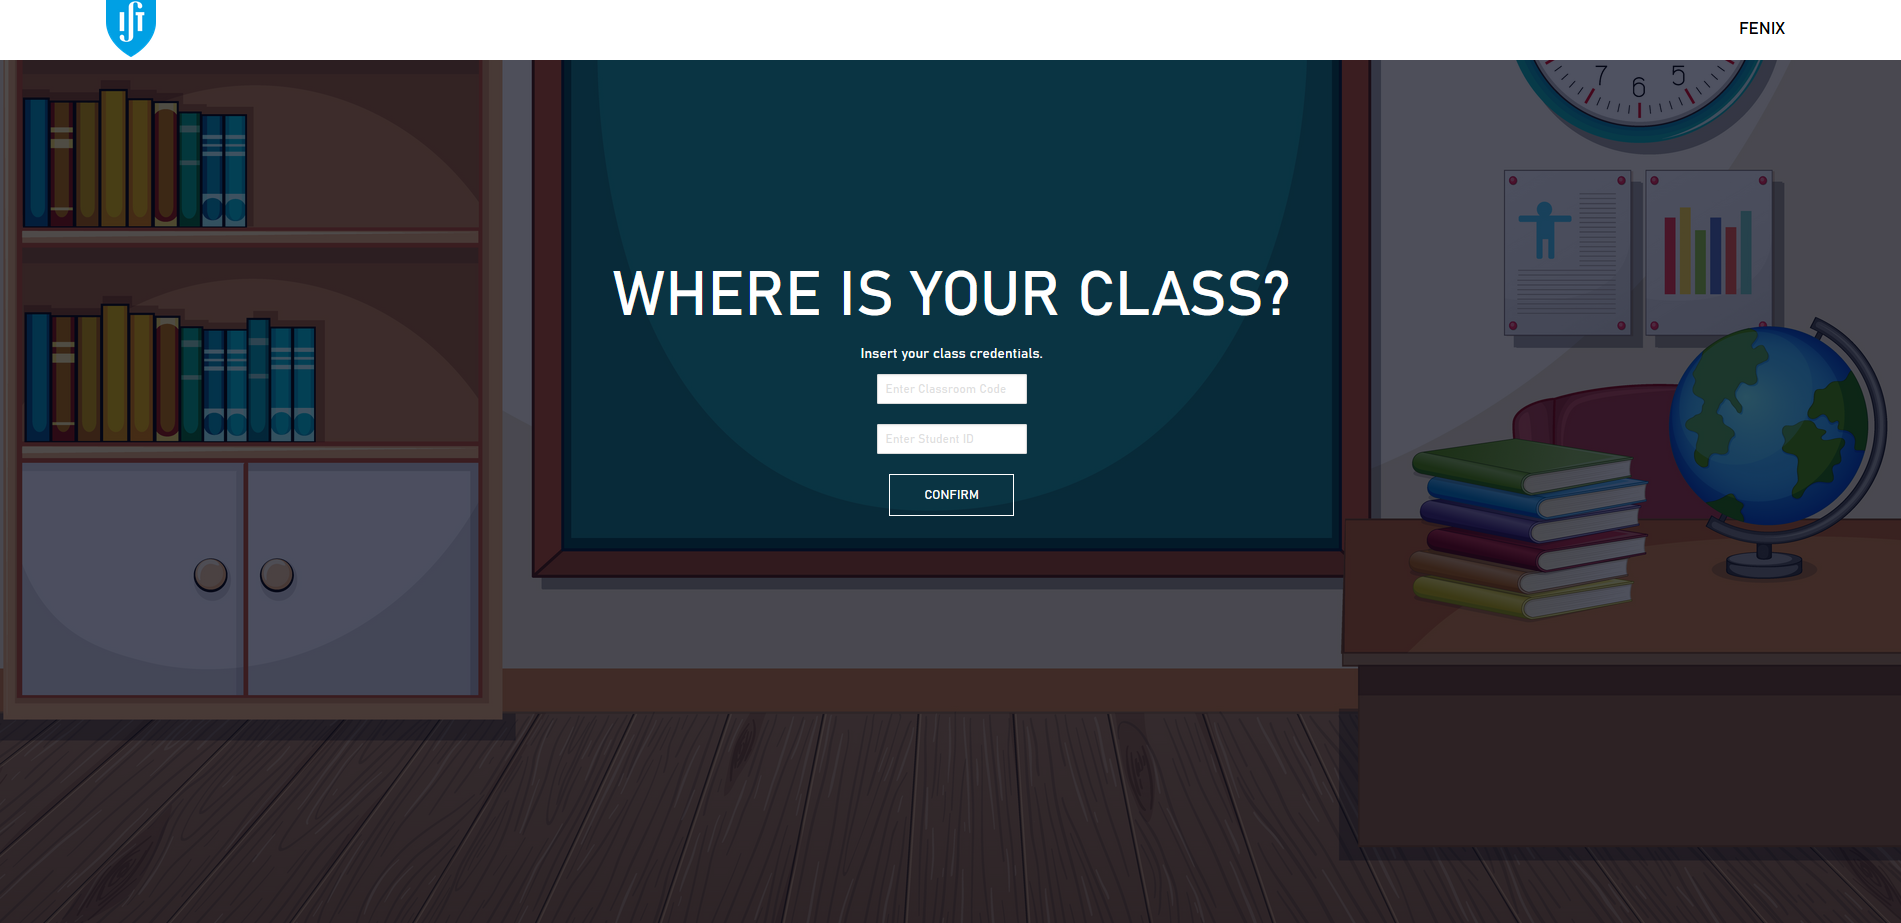
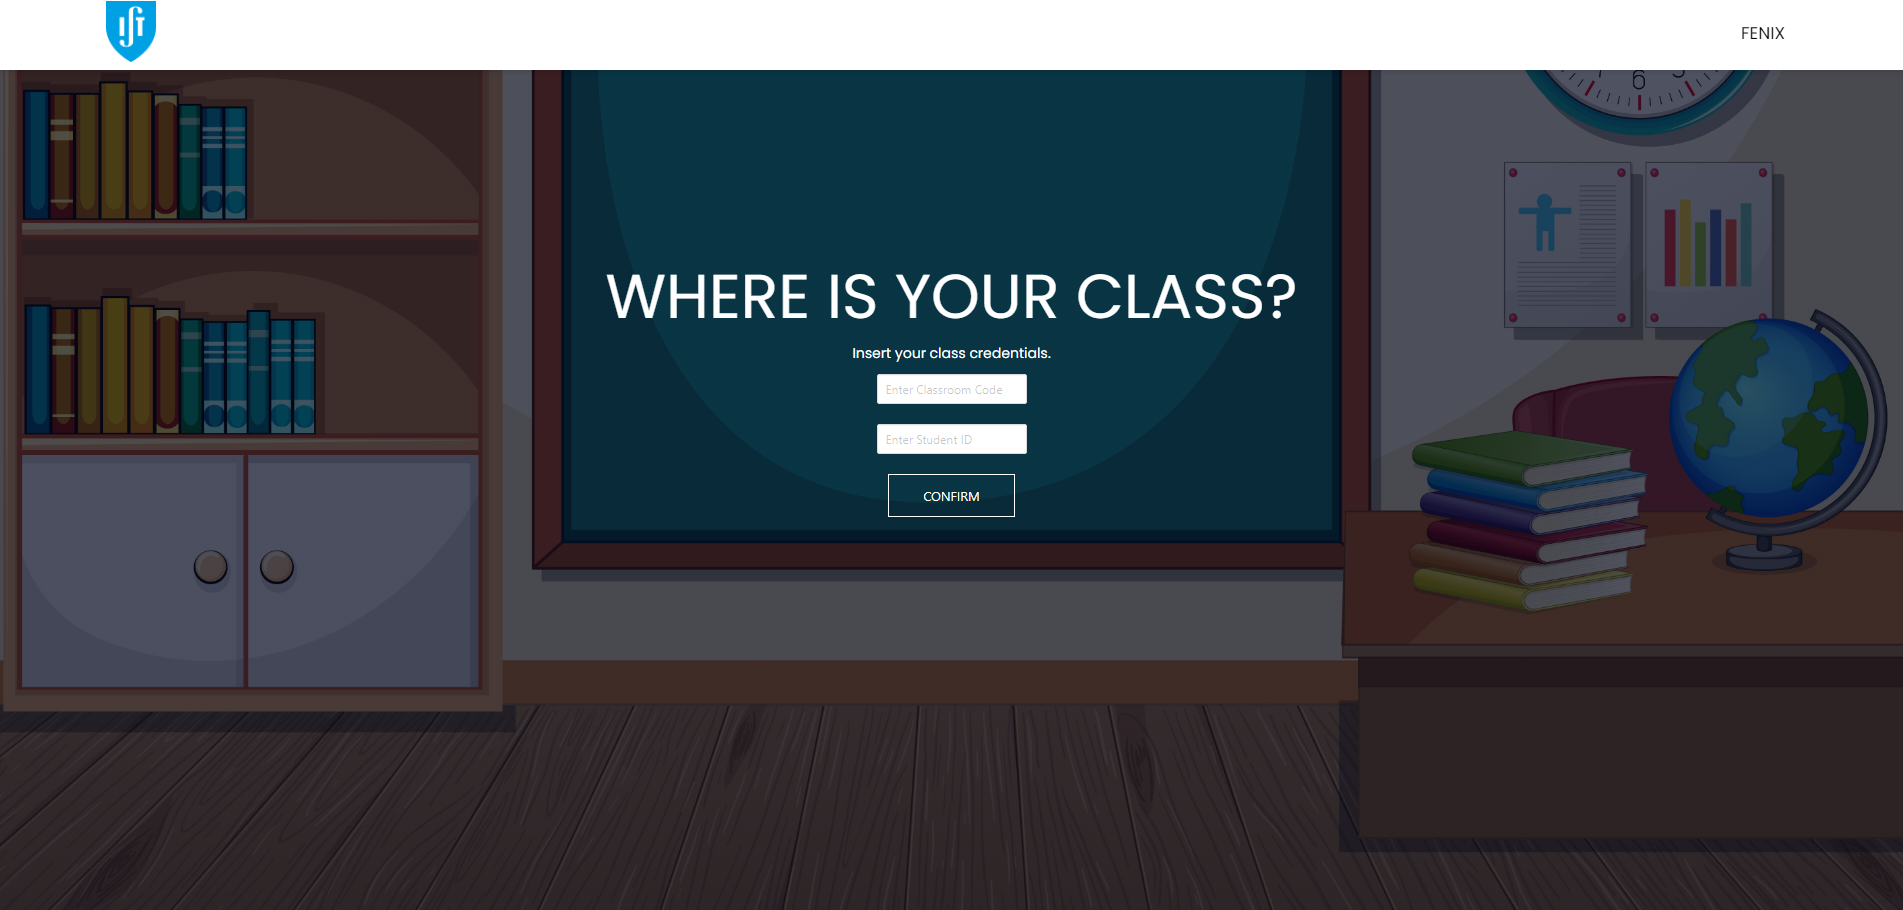
update images & fix header

diff --git a/static/stylesheets/room.css b/static/stylesheets/room.css
@@ -9,17 +9,18 @@
     width: 100%;
     background-color: #ffffff;
     position: fixed;
-    padding: 10px 6px; /* Adjust the padding as needed */
-    height: 60px; /* Adjust the height as needed */
-    box-shadow: 0 2px 4px rgba(0, 0, 0, 0.1); /* Add shadow to the bottom border */
+    padding: 10px 6px; 
+    height: 70px;
+    box-shadow: 0 2px 4px rgba(0, 0, 0, 0.1); 
+    
 }
 nav{
     display: flex;
     padding: 1% 6%;
     justify-content: space-between;
     align-items: center;
-    height: 100%; /* Ensure navigation fills the entire height of the header */
-    padding: 0 100px; /* Add padding to the left and right to space out navigation elements */
+    height: 100%; 
+    padding: 0 100px; 
 }
 nav img{
     width: 50px;
@@ -53,14 +54,14 @@ nav img{
 
 .welcome {
     position: fixed;
-    top: 90px; /* Adjust based on your header height */
+    top: 90px; 
     left: 0;
     width: 100%;
-    padding: 20px 0; /* Adjust padding as needed */
+    padding: 20px 0; 
     text-align: center;
-    z-index: 99; /* Ensure the "Welcome" section appears above other content */
-    font-size: 40px; /* Adjust font size as needed */
-    font-weight: bold; /* Ensure text is bold */
+    z-index: 99; 
+    font-size: 40px; 
+    font-weight: bold; 
 }
 
 .room{
@@ -81,25 +82,25 @@ nav img{
 
 .box {
     margin: 20px;
-    min-height: 30vh; /* Set minimum height to 30% of the viewport height */
-    width: 30%; /* Set width to 80% of the parent container */
+    min-height: 30vh; 
+    width: 30%; 
     padding: 20px;
     border: 1px solid #ccc;
     border-radius: 10px;
 }
 
 #student-feed textarea {
-    width: 100%; /* Set the width to 100% to fill the available space */
-    min-height: 100px; /* Set a minimum height for the textarea */
-    padding: 10px; /* Add padding to the textarea */
-    font-size: 16px; /* Adjust the font size as needed */
-    box-sizing: border-box; /* Include padding and border in the element's total width and height */
+    width: 100%; 
+    min-height: 100px; 
+    padding: 10px; 
+    font-size: 16px; 
+    box-sizing: border-box; 
     resize: none;
 }
 
 #student-feed select {
-    height: 45px; /* Set the height to match the button */
-    vertical-align: middle; /* Align elements vertically */
+    height: 45px; 
+    vertical-align: middle; 
 }
 
 #teacher-control input {
@@ -209,14 +210,14 @@ h3{
 }
 
 #attendance-list {
-    max-width: 200px; /* Adjust as needed */
+    max-width: 200px; 
     overflow: hidden;
     white-space: nowrap;
     text-overflow: ellipsis;
 }
 
 #questions {
-    max-width: 100%; /* Set the maximum width to 100% of its container */
+    max-width: 100%; 
     word-wrap: break-word; /* Break long words and wrap text to fit within the container */
 }
 

diff --git a/static/stylesheets/style2.css b/static/stylesheets/style2.css
@@ -9,16 +9,17 @@
     width: 100%;
     background-color: #ffffff;
     position: fixed;
-    padding: 10px 6px; /* Adjust the padding as needed */
-    height: 60px; /* Adjust the height as needed */
+    padding: 10px 6px; 
+    height: 70px; 
+    box-shadow: 0 2px 4px rgba(0, 0, 0, 0.1); 
 }
 nav{
     display: flex;
     padding: 1% 6%;
     justify-content: space-between;
     align-items: center;
-    height: 100%; /* Ensure navigation fills the entire height of the header */
-    padding: 0 100px; /* Add padding to the left and right to space out navigation elements */
+    height: 100%; 
+    padding: 0 100px; 
 }
 nav img{
     width: 50px;
